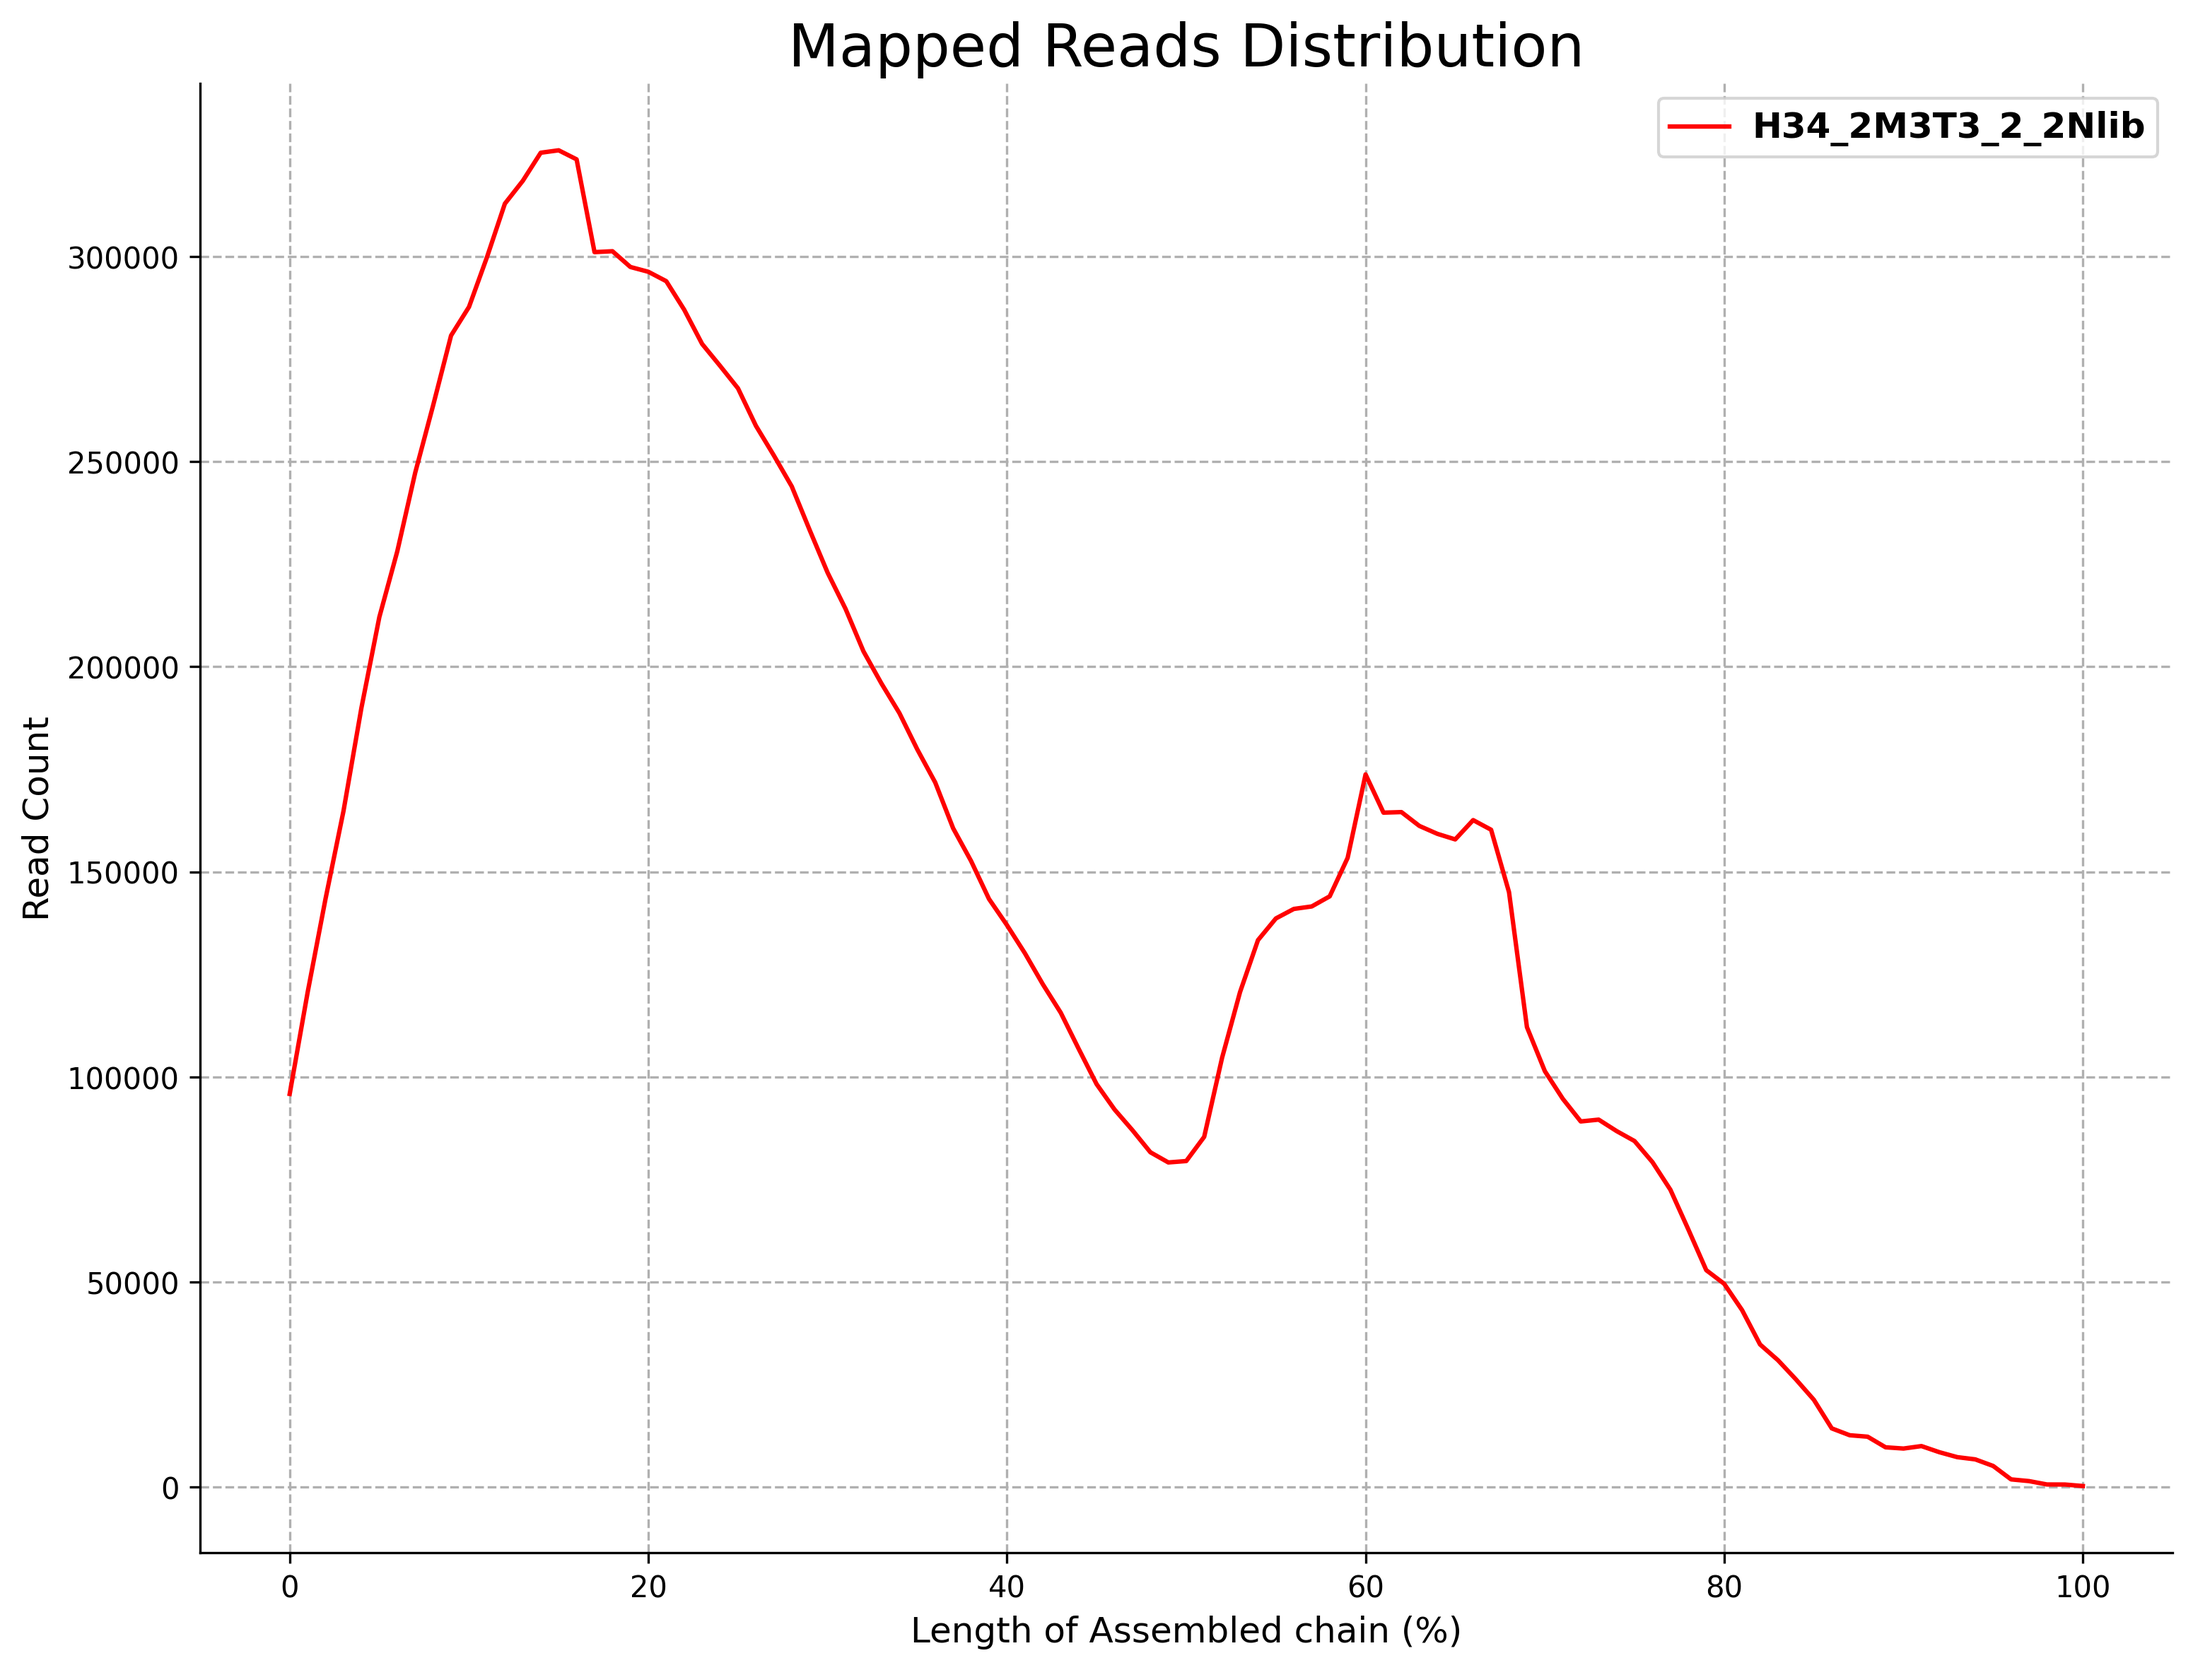
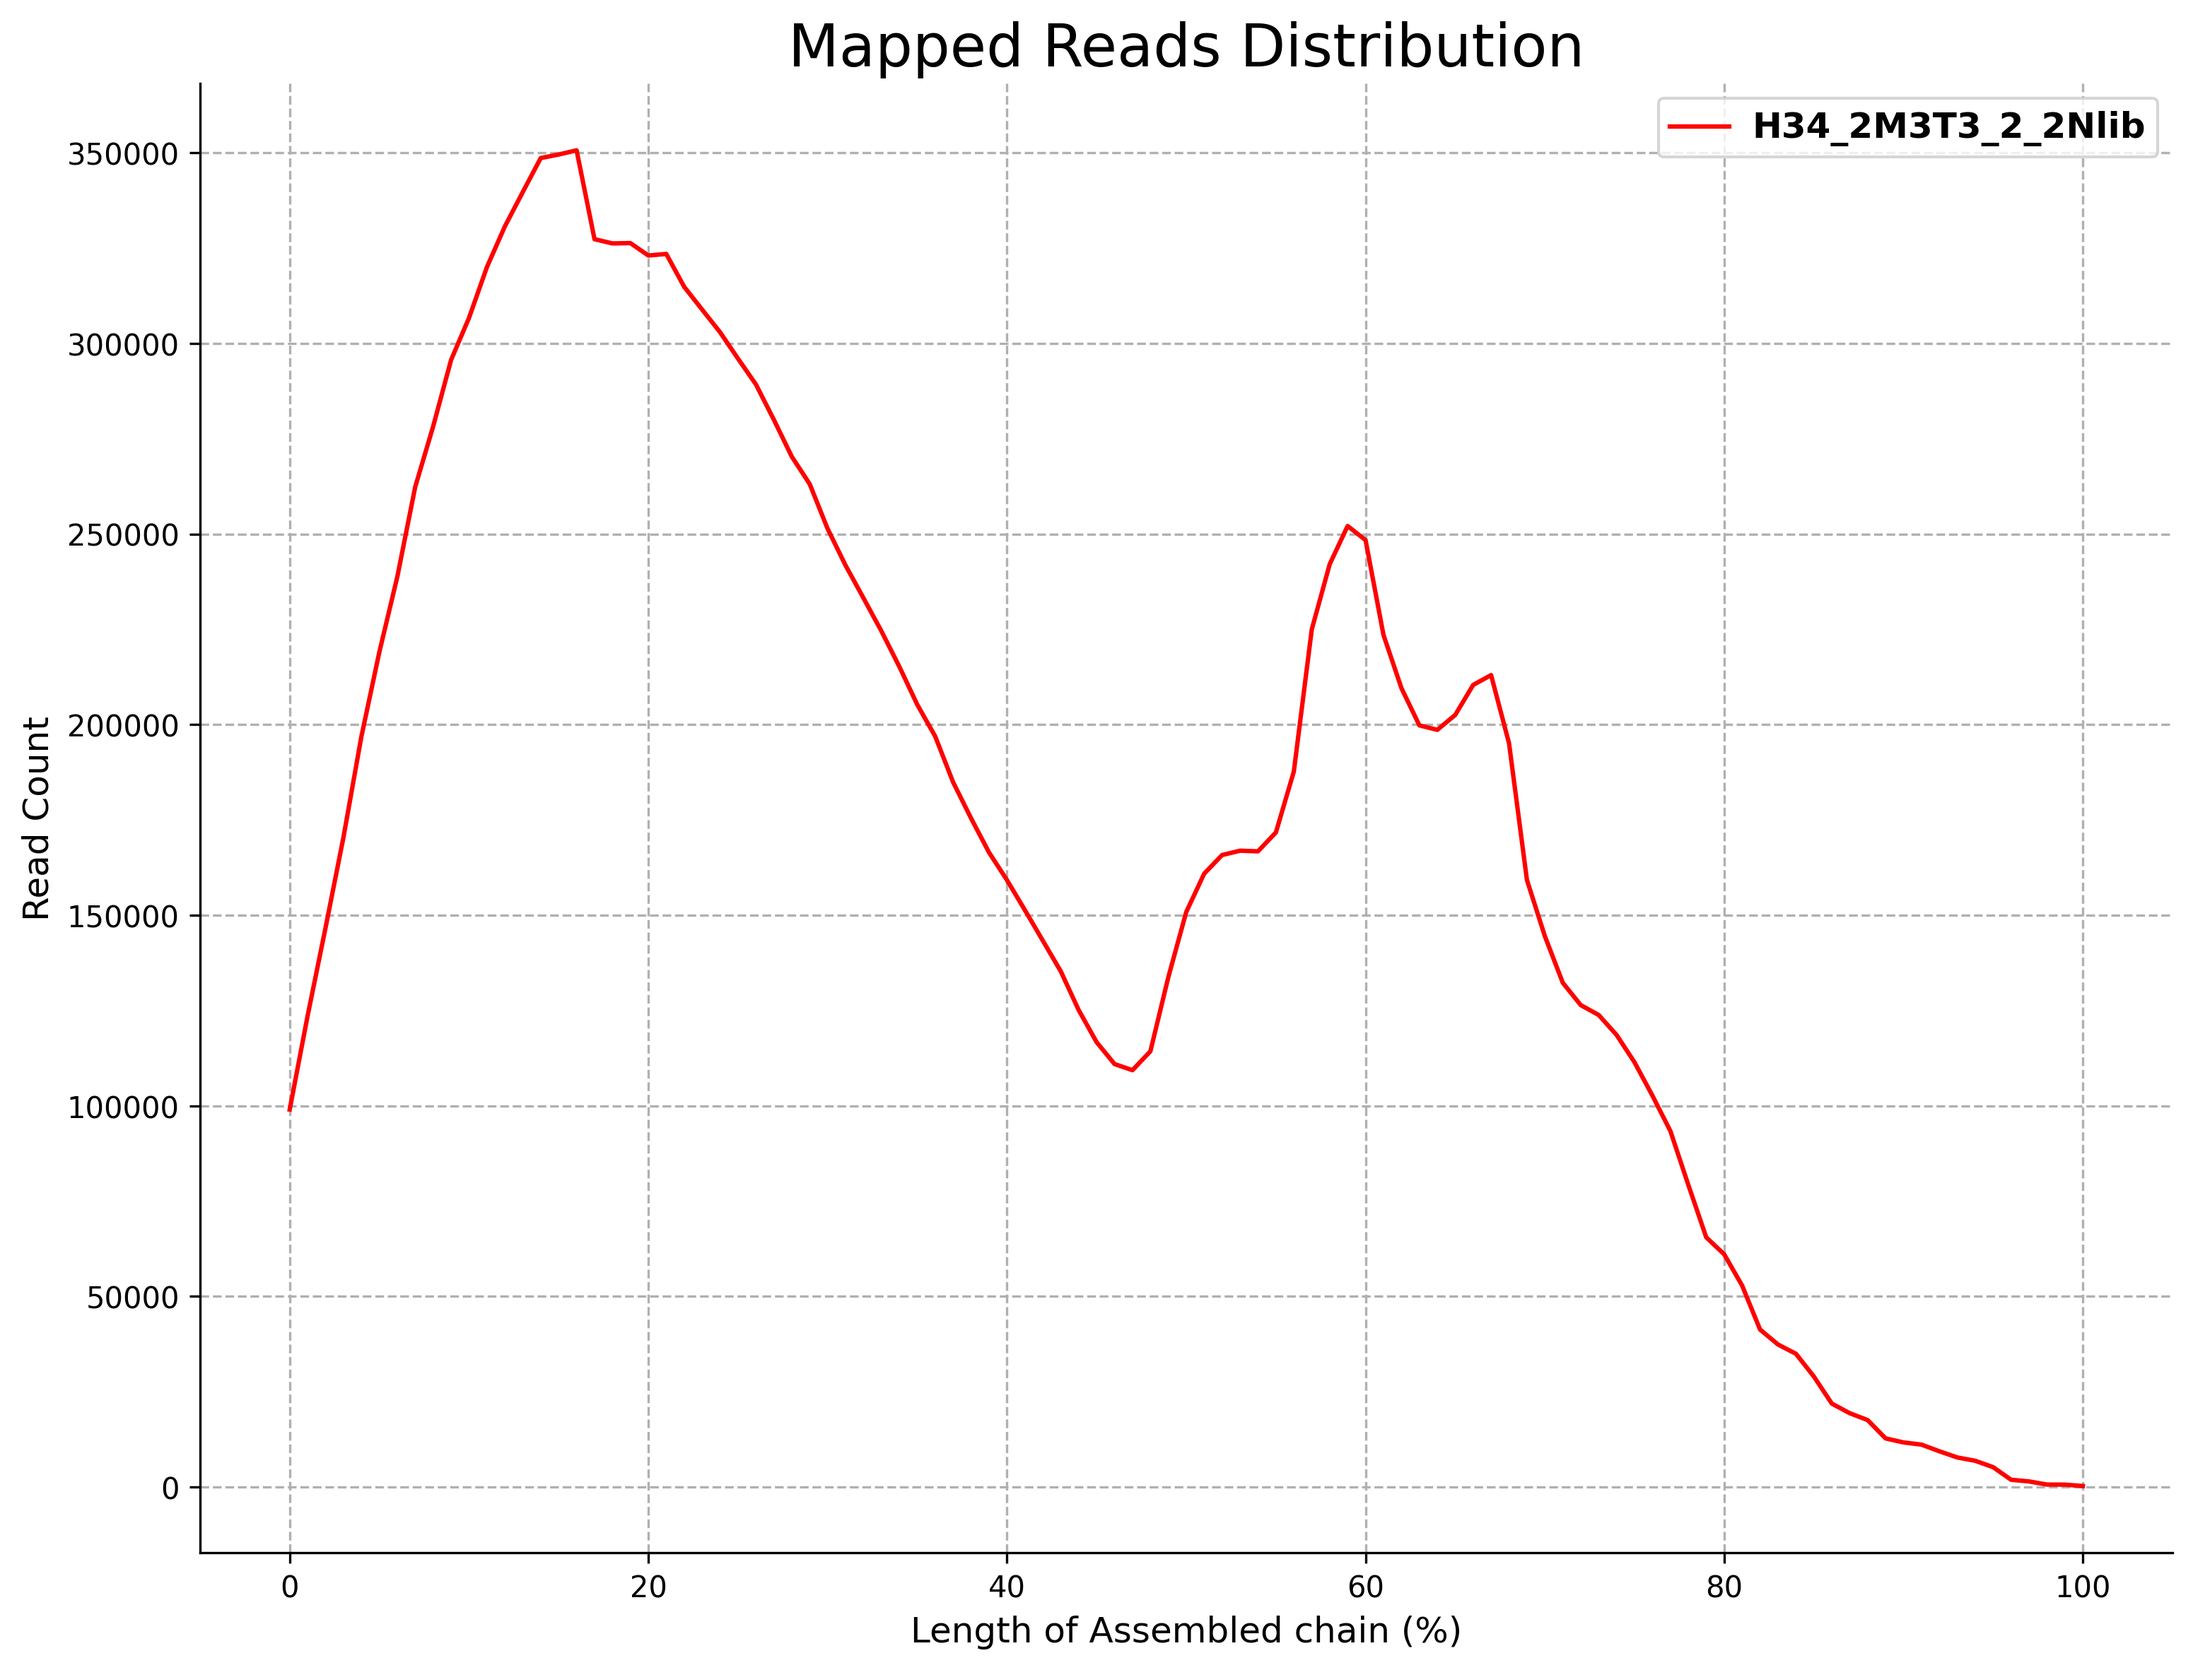
fix reads distribution

diff --git a/reads_distribution/reads_distribution.py b/reads_distribution/reads_distribution.py
@@ -24,9 +24,9 @@ def parse_bam(out_path):
             end_pos_list.append(read.reference_end)
     bam.close()
 
-    start_index = max(start_pos_list) / 100
+    # start_index = max(start_pos_list) / 100
     end_index = max(end_pos_list) / 100
-    start_list = [round(j/start_index) for j in start_pos_list]
+    start_list = [round(j/end_index) for j in start_pos_list]
     end_list = [round(j/end_index) for j in end_pos_list]
     count_dic = defaultdict(int)
     for i in range(len(start_list)):
